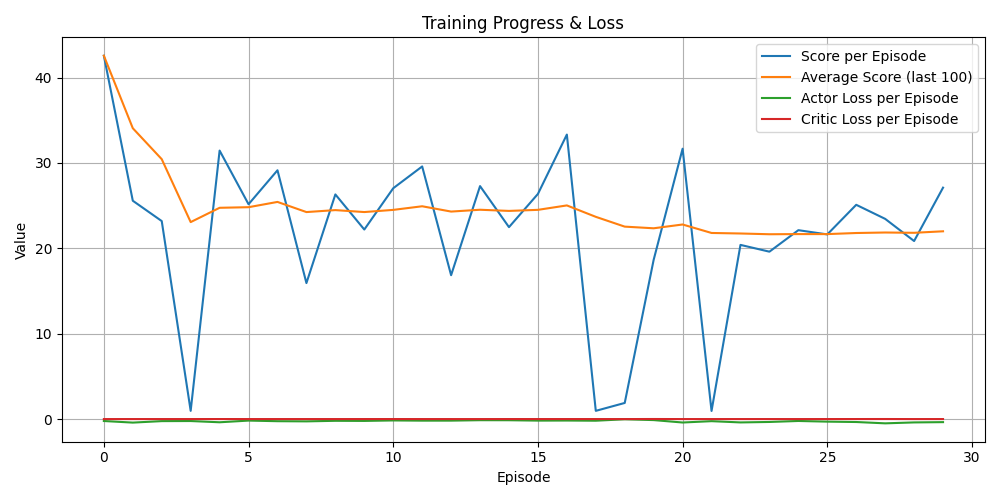
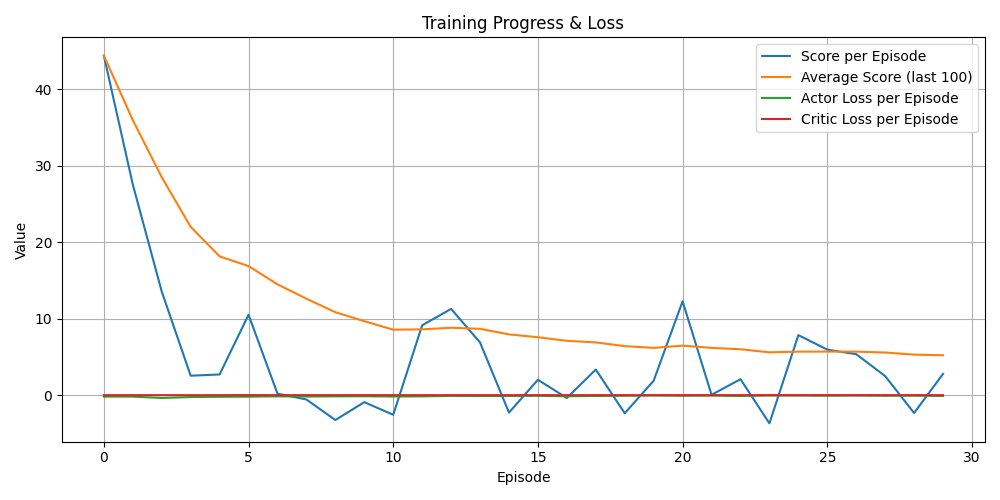
Update training parameters and add visualization features

diff --git a/training/ddpg_her.py b/training/ddpg_her.py
@@ -8,7 +8,7 @@ import matplotlib.pyplot as plt
 
 if __name__ == "__main__":
 
-    n_games = 250
+    n_games = 30
     opt_steps = 64
     best_score = 0
     score_history = []

diff --git a/README.md b/README.md
@@ -68,3 +68,13 @@ If you have any questions, feedback, or issues, please don't hesitate to open an
 ## License
 
 Distributed under the MIT License. See `LICENSE.txt` for more information.
+
+## Notes
+
+- cd /home/quan/Robot-arm-control-with-RL && git add . (Thêm tất cả thay đổi vào staging)
+- cd /home/quan/Robot-arm-control-with-RL && git commit -m "Update training parameters and add visualization features" (Commit với message mô tả)
+- cd /home/quan/Robot-arm-control-with-RL && git push (Đẩy code lên GitHub)
+
+
+
+
